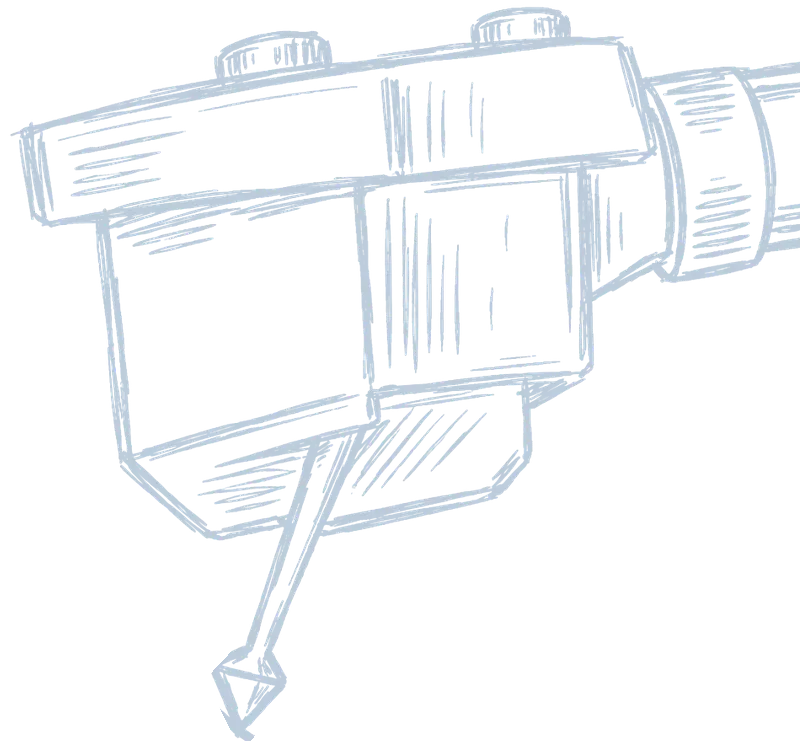
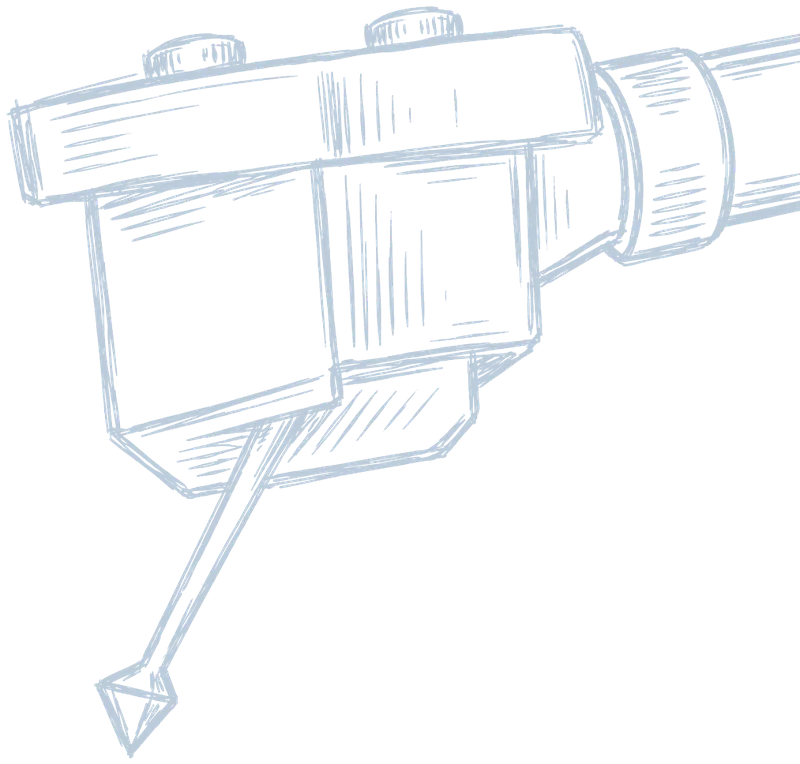
News 'What Is Vinyl?': clean needle-only drawing for the groove ride
Replaces the needle cut out of the stylus drawing with a dedicated
cartridge + cantilever + tip drawing; tip anchor updated (16.3%, 99.1%).

Claude-Session: https://claude.ai/code/session_01UyRgorDGz6dYz26f7NgFe3

Changed region(s): [[0.0, 0.0, 1.0, 1.0]]

diff --git a/src/content/news/what-is-a-record/Story.jsx b/src/content/news/what-is-a-record/Story.jsx
@@ -68,8 +68,8 @@ function Landing({ className = "" }) {
 }
 
 /* 바늘의 진동: 홈(물결선)이 옆으로 흘러가고, 바늘은 바늘 끝 자리의 홈 높이에 맞춰 오르내림
-   needle 그림의 바늘 끝 = 그림의 (30.6%, 98.3%). SVG 좌표 600×440 안에서 바늘 끝은 x=250 에 고정 */
-const NG = { w: 360, h: 360 * 748 / 800, tipX: 250, tipFx: 0.306, tipFy: 0.983, base: 372 };
+   needle 그림의 바늘 끝 = 그림의 (16.3%, 99.1%). SVG 좌표 600×440 안에서 바늘 끝은 x=210 에 고정 */
+const NG = { w: 380, h: 380 * 764 / 800, tipX: 210, tipFx: 0.163, tipFy: 0.991, base: 372 };
 const grooveY = (x, s) => NG.base + 22 * (0.62 * Math.sin((x + s) * 0.04) + 0.3 * Math.sin((x + s) * 0.097 + 1) + 0.08 * Math.sin((x + s) * 0.23));
 const groovePath = (s, dy = 0) => "M" + Array.from({ length: 101 }, (_, i) => `${i * 6} ${(grooveY(i * 6, s) + dy).toFixed(1)}`).join(" L");
 const needleY = (s) => grooveY(NG.tipX, s) - NG.h * NG.tipFy;
